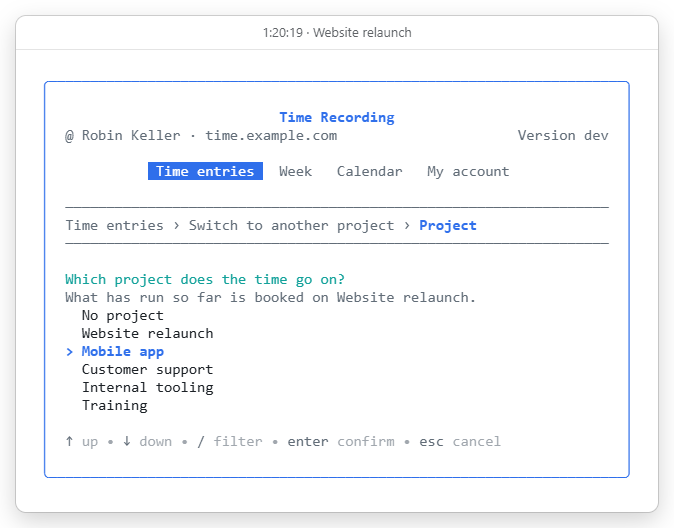
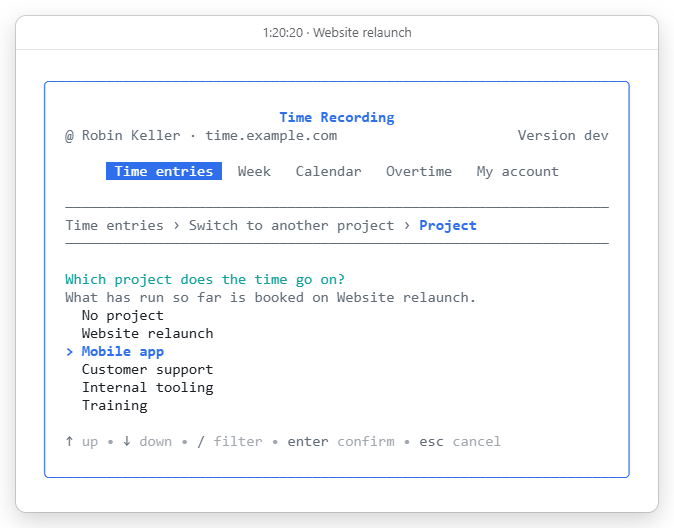
docs: describe the terminal's overtime tab and take its pictures again
The API document's account of what each tab asks gains Overtime: its
three cards and the routes each reads, the balance's id among them,
which the client takes from what /me names. The README's sentence about
the keys says what y and s do there. The package comment, the usage text
in both languages and CLAUDE.md's bullet name the overtime with the other
tabs, and its integration case beside theirs.

The terminal's two pictures were taken again by task readme:pictures,
because their row of tabs has Overtime in it now, and looked at before
committing. The web pictures from the same run were left as they were,
since no web screen changed and they differ only by the year the camera
books, which moves with today.

Changed region(s): [[0.1558, 0.303, 0.8412, 0.3636]]

diff --git a/internal/interface/cli/track.go b/internal/interface/cli/track.go
@@ -26,9 +26,9 @@ const usage = `go-time-recording-client - book time from a terminal
 On a terminal and without a command, it opens a screen headed by the web
 interface's tabs: the time entries - the stopwatch, the entries, the spreadsheet
 and the templates - the week as a grid of projects and days, the calendar of a
-month with its working time, leave and days away, and the account's own
-settings, which it saves to the account as the browser does, with a menu and a
-form for each change.
+month with its working time, leave and days away, the hours of a period with
+the year and the balance, and the account's own settings, which it saves to
+the account as the browser does, with a menu and a form for each change.
 
   status                             the stopwatch, and what today adds up to
   start [project] [-m text]          start the stopwatch, on a project or on none

diff --git a/internal/interface/cli/doc.go b/internal/interface/cli/doc.go
@@ -18,7 +18,8 @@
 // Tea and huh, headed by the web interface's tabs as far as it has been taught
 // them: the stopwatch running and the entries, the week as a grid of projects
 // and days, the calendar of a month with its working time, leave and days away,
-// the account's settings, and a form for each change. The commands
+// the hours of a period with the year and the balance, the account's settings,
+// and a form for each change. The commands
 // stay, because a script reads lines and a screen reader reads lines too, where
 // a drawn screen serves neither; both make their changes through the same
 // functions and say what they did in the same words.

diff --git a/CLAUDE.md b/CLAUDE.md
@@ -148,7 +148,7 @@
 * **State/Refills:** Background loads/saves must not overwrite a partially filled form or read stale server state. `beingEdited(form)` is what tells a loader to leave a half-filled form alone.
 * **Duplication:** Search for existing UI controls (e.g., password reveals) before adding new ones. One question gets one control: the role is changed from the dropdown in the user's row and nowhere else, which is why the account form puts that field away while it is editing.
 * **The terminal client follows the account, and changes the account rather than itself** - decided by the maintainer on 2026-11-03. What the installation and the account hold presets it: the account's language, appearance, zone and reminders, the installation's name and banner, and the notices the browser shows as banners, read with the day so that a choice made in the browser reaches an open screen at its next read. A setting changed in it is saved to the account through the route the browser uses, so it holds everywhere and the client can set nothing the browser cannot. Only the connection lives on the machine, and a language named with `--lang` or `GTR_LANG`, which a script relies on. Where the terminal measures what a setting can only guess - its background - the measurement wins, because the client can draw on a background it cannot change. `internal/interface/cli/setting.go` holds the list, and a setting added to *My account* belongs there too. **The Android app needs none of this: it shows the web interface itself**, decided the same day, so that it does whatever the browser does, in its design, for good - see `internal/interface/mobile/src/main/kotlin/io/github/dennisdko/gotimerecording/Web.kt`.
-* **The terminal client is the web interface in a terminal, taught one area at a time** - asked for by the maintainer in November 2026, with one pull request per area. The page's tabs sit across the top, and a tab is listed only once its area does what the page's does (`tabs` in `internal/interface/cli/tab.go`), because a tab that opened onto nothing would offer what the screen cannot do. Under the tabs come the page's cards with their data, and under those the menu with `>` from the framed look, grouped by the page's cards - chosen by the maintainer from two mock-ups over a bar of keys. A change to one row is chosen first, and its row is picked in the card's table after it. An area says what the page says, through the page's dictionary keys and in its English: where the page writes a name out itself - a public holiday, a kind of absence - the client reads that English from `app.js` through `web.English` rather than keeping a copy, and the English it does keep beside a page's key is held to the page's. Its requests are held to a personal token against the real binary, as `test/integration/clienttimesheet_test.go` holds the time entries' and `test/integration/clientweek_test.go` the week's and `test/integration/clientcalendar_test.go` the calendar's.
+* **The terminal client is the web interface in a terminal, taught one area at a time** - asked for by the maintainer in November 2026, with one pull request per area. The page's tabs sit across the top, and a tab is listed only once its area does what the page's does (`tabs` in `internal/interface/cli/tab.go`), because a tab that opened onto nothing would offer what the screen cannot do. Under the tabs come the page's cards with their data, and under those the menu with `>` from the framed look, grouped by the page's cards - chosen by the maintainer from two mock-ups over a bar of keys. A change to one row is chosen first, and its row is picked in the card's table after it. An area says what the page says, through the page's dictionary keys and in its English: where the page writes a name out itself - a public holiday, a kind of absence - the client reads that English from `app.js` through `web.English` rather than keeping a copy, and the English it does keep beside a page's key is held to the page's. Its requests are held to a personal token against the real binary, as `test/integration/clienttimesheet_test.go` holds the time entries' and `test/integration/clientweek_test.go` the week's, `test/integration/clientcalendar_test.go` the calendar's and `test/integration/clientovertime_test.go` the overtime's.
 * **A card withheld from somebody who can open its screen is replaced by a sentence, not by nothing.** The directory synchronisation is offered only to an account that administers and records no time of its own, and for the combined role the card was simply absent - on a screen the tour told that very account carried it. An absent card cannot be told from a removed feature, and the question that prompted this was exactly that: had the synchronisation not been on the Settings screen before? `#sync-elsewhere` now says whose the run is, and carries nothing that can be pressed, because the server refuses that account the run; `TestAnAdministratorWhoAlsoWorksIsToldWhereTheDirectoryRunIs` holds the sentence and the tour's with it.
 * **One form, two jobs.** Creating and correcting share a form, told apart by a hidden `id` input — the booking form, the role form, the account form and the project form all work this way. A form in edit mode swaps its title and its submit label and shows its `cancel editing` button; saving calls the form's own reset so the next new record is not written over the one just saved.
 * **DOM Quirks:**

diff --git a/README.md b/README.md
@@ -252,7 +252,7 @@ and says what it did — for a script, an alias or a screen reader.
     </td>
     <td width="50%" valign="top">
       <img src="doc/image/terminal-switch.png" alt="The form that switches the stopwatch to another project, one question at a time, with the active projects to choose from">
-      <p><b>One question at a time.</b> The arrow keys and <code>enter</code> choose a change from the menu, or its key does it at once: <code>s</code> starts the stopwatch, <code>w</code> switches it to another project and books what has run, <code>x</code> stops it and books it after asking, and <code>b</code> books hours by hand. <code>e</code>, <code>u</code>, <code>t</code> and <code>v</code> open the menus of the page's cards - the entries, the stopwatch, the spreadsheet and the templates - where a change to an entry is chosen first and the entry picked in the list after it. <code>←</code> and <code>→</code> move between the tabs; under <i>Week</i> the hours go straight into a grid of projects and days, the cell picked with the arrows, and <code>&lt;</code> and <code>&gt;</code> move it a week back and on. Under <i>Calendar</i> the month shows a day's entries, the working time - saved as a PDF if asked - the year's leave and the days away. A form asks one thing at a time and the line above it says where it is; <code>esc</code> puts it away or goes back, and <code>q</code> closes the screen.</p>
+      <p><b>One question at a time.</b> The arrow keys and <code>enter</code> choose a change from the menu, or its key does it at once: <code>s</code> starts the stopwatch, <code>w</code> switches it to another project and books what has run, <code>x</code> stops it and books it after asking, and <code>b</code> books hours by hand. <code>e</code>, <code>u</code>, <code>t</code> and <code>v</code> open the menus of the page's cards - the entries, the stopwatch, the spreadsheet and the templates - where a change to an entry is chosen first and the entry picked in the list after it. <code>←</code> and <code>→</code> move between the tabs; under <i>Week</i> the hours go straight into a grid of projects and days, the cell picked with the arrows, and <code>&lt;</code> and <code>&gt;</code> move it a week back and on. Under <i>Calendar</i> the month shows a day's entries, the working time - saved as a PDF if asked - the year's leave and the days away. Under <i>Overtime</i> the hours of a period are drawn as the page's bars, <code>y</code> shows the year as its tiles and <code>s</code> calculates the balance. A form asks one thing at a time and the line above it says where it is; <code>esc</code> puts it away or goes back, and <code>q</code> closes the screen.</p>
     </td>
   </tr>
 </table>

diff --git a/doc/api.md b/doc/api.md
@@ -81,6 +81,20 @@ right to set one's own settings. `a` opens the days away of the year
 and taken back one at a time (`DELETE /me/absences/{day}`), for an account that
 may book its own time.
 
+*Overtime*, after it, holds the page's three cards. The hours of a period come
+first, drawn as the page's charts: a bar a day, the empty days among them, a bar
+a project and a bar an activity (`GET /me/statistics`), from the first of the
+month to today until `z` chooses another period, paged with PgUp and PgDn where
+the window holds fewer days than the period has, and saved as a PDF with `p`
+(`POST /exports/document`). `y` opens the year as the page's tiles - a column a
+week, a row a weekday, each day shaded by the hours booked on it - with the year
+before beside it up to the same day and both month by month (`GET /me/days` for
+each whole year); `<` and `>` move it a year back and on while it is open. `s`
+opens the balance (`GET /users/{id}/overtime`, the id being the one `GET /me`
+names), calculated as it opens for the first of the month to today: every day
+that counts with what was booked, what it asked and the difference, which rule
+counted them, and the total, with `z` for another period and `p` for a PDF.
+
 *My account*, the last tab, holds the account's own settings, each chosen by its
 number, and a change is sent to the route the browser sends it to:
 
